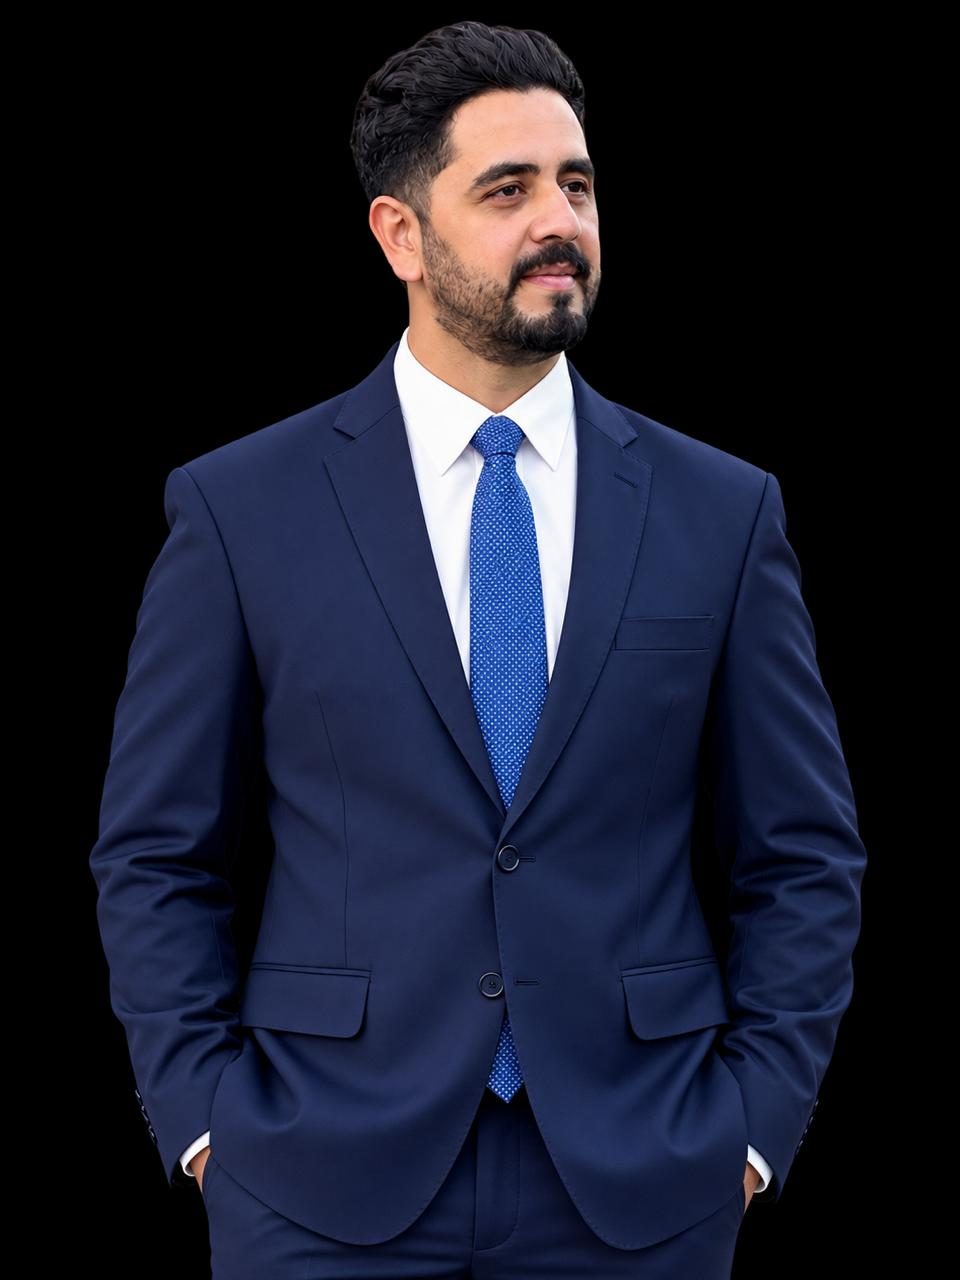
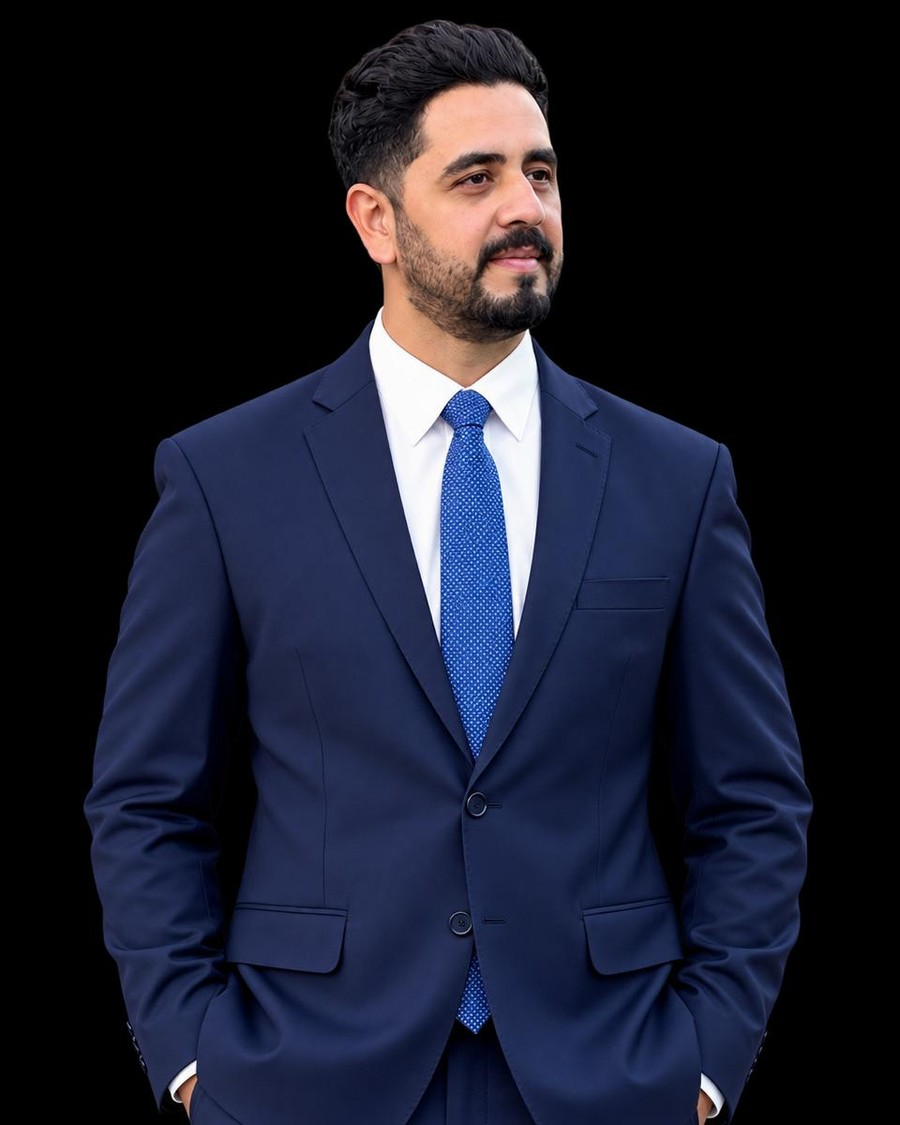
Redesign About page founder section, add CTA scroll choreography, fix heading font consistency
- Rebuild the founder portrait as a large left-aligned circular frame
  with an offset gold ring (stroke-draw animation) instead of a
  full-bleed rectangular panel, avoiding any studio-backdrop seam
  against the page background
- Re-crop the founder photo to a proper head-and-shoulders framing via
  sharp's attention-based smart crop (original backed up)
- Add multi-directional scroll-in choreography to the homepage CTA
  section and a reusable word-mask TextReveal component for headings
- Revert two headings that had drifted to plain Inter back to Playfair
  for sitewide consistency, and replace ornate "&" ampersands with
  "and" in public-facing Playfair headings
- Add optional className support to ScrollReveal

diff --git a/components/about/AboutView.tsx b/components/about/AboutView.tsx
@@ -3,6 +3,7 @@
 import React from "react";
 import Image from "next/image";
 import Link from "next/link";
+import { motion } from "framer-motion";
 import { ScrollReveal } from "@/components/ui/ScrollReveal";
 import { MapPin, ShieldCheck, ArrowDown } from "lucide-react";
 
@@ -144,7 +145,7 @@ export const AboutView: React.FC<AboutViewProps> = ({
                 PRACTICE LEADERSHIP
               </span>
               <h2 className="font-playfair text-3xl md:text-5xl text-on-surface dark:text-zinc-100 font-normal">
-                Principal Architect &amp; Founder.
+                Principal Architect and Founder.
               </h2>
               <p className="font-inter text-sm md:text-base text-on-surface-variant dark:text-zinc-400 font-light">
                 Every project is personally spearheaded by Muhammad Arsalan,
@@ -170,80 +171,124 @@ export const AboutView: React.FC<AboutViewProps> = ({
           </div>
         ) : (
           leaders.map((leader) => (
-            <ScrollReveal key={leader.name}>
-              <div className="w-full grid grid-cols-1 lg:grid-cols-[2fr_3fr] lg:min-h-[480px] items-stretch bg-surface-container-low dark:bg-zinc-900 border-y border-outline-variant/20">
-                {/* Left: portrait in architectural circular frame */}
-                <div className="relative min-h-[360px] lg:min-h-0 flex items-center justify-center py-10 lg:py-12 px-6">
-                  <div className="group relative w-full max-w-[280px] sm:max-w-[320px] md:max-w-[360px] aspect-square rounded-full overflow-hidden border-4 border-white dark:border-zinc-800 shadow-2xl ring-2 ring-tertiary/25 dark:ring-tertiary/30 hover:ring-tertiary/60 dark:hover:ring-tertiary/60 transition-all duration-500 bg-transparent">
+            <div
+              key={leader.name}
+              className="w-full grid grid-cols-1 lg:grid-cols-[2fr_3fr] bg-surface-container-low dark:bg-zinc-900 border-y border-outline-variant/20"
+            >
+              {/* Left: contained circular portrait — left-aligned in its
+                  column, vertically centered against the text. A defined
+                  circular boundary (with the offset gold ring as the
+                  deliberate edge) rather than a full-bleed rectangle means
+                  there's no seam to fight regardless of the source photo's
+                  own backdrop color. */}
+              <div className="flex items-center justify-start px-6 md:px-margin-desktop lg:px-16 py-14 lg:py-16">
+                <div className="relative w-[280px] sm:w-[360px] lg:w-[450px] aspect-square shrink-0">
+                  {/* Offset gold ring, sitting a few px behind/right of the
+                      photo for depth — traces in like a drawn circle
+                      slightly after the photo scales/fades into place. */}
+                  <svg
+                    className="absolute -right-3 -bottom-3 w-full h-full pointer-events-none overflow-visible"
+                    viewBox="0 0 100 100"
+                  >
+                    <motion.circle
+                      cx="50"
+                      cy="50"
+                      r="49.5"
+                      fill="none"
+                      stroke="#8a6125"
+                      strokeWidth="0.6"
+                      pathLength={1}
+                      initial={{ pathLength: 0, opacity: 0 }}
+                      whileInView={{ pathLength: 1, opacity: 1 }}
+                      viewport={{ once: true, amount: 0.2 }}
+                      transition={{
+                        pathLength: { duration: 0.7, delay: 0.35, ease: "easeOut" },
+                        opacity: { duration: 0.2, delay: 0.35 },
+                      }}
+                    />
+                  </svg>
+
+                  {/* Photo circle */}
+                  <motion.div
+                    initial={{ opacity: 0, scale: 0.85, x: 40 }}
+                    whileInView={{ opacity: 1, scale: 1, x: 0 }}
+                    viewport={{ once: true, amount: 0.2 }}
+                    transition={{ duration: 0.6, ease: "easeOut" }}
+                    className="relative w-full h-full rounded-full overflow-hidden shadow-xl ring-1 ring-black/5"
+                  >
                     <Image
                       fill
-                      src={
-                        leader.image === "/images/profile.jpeg"
-                          ? "/images/profile-removebg-preview.png"
-                          : leader.image ||
-                            "/images/profile-removebg-preview.png"
-                      }
+                      src={leader.image}
                       alt={`${leader.name}, ${leader.role} at MARK Architects`}
-                      sizes="(max-width: 640px) 280px, (max-width: 768px) 320px, 360px"
-                      className="object-cover object-top transition-transform duration-700 ease-out group-hover:scale-105 will-change-transform"
+                      sizes="(max-width: 640px) 280px, (max-width: 1024px) 360px, 450px"
+                      className="object-cover object-top"
                       priority
                     />
-                  </div>
-                </div>
-
-                {/* Right: qualifications */}
-                <div className="flex flex-col justify-center px-4 md:px-margin-desktop py-14 lg:py-0">
-                  <div className="max-w-xl space-y-5 w-full">
-                    <div>
-                      <div className="h-px w-12 bg-tertiary/50 mb-4" />
-                      <h3 className="font-playfair text-4xl sm:text-5xl font-bold text-on-surface dark:text-zinc-100">
-                        {leader.name}
-                      </h3>
-                      <p className="text-sm sm:text-base text-tertiary font-inter font-semibold mt-1.5">
-                        {leader.role}
-                      </p>
-                    </div>
-
-                    <div className="flex flex-wrap gap-2">
-                      {leader.credentials.split(" • ").map((cred) => (
-                        <span
-                          key={cred}
-                          className="inline-flex items-center gap-1.5 bg-white dark:bg-zinc-900 text-on-surface dark:text-zinc-200 text-xs sm:text-sm font-inter font-semibold px-3.5 py-2 rounded-lg border border-outline-variant/40 shadow-xs"
-                        >
-                          <ShieldCheck className="w-3.5 h-3.5 text-emerald-600 shrink-0" />
-                          {cred}
-                        </span>
-                      ))}
-                    </div>
-
-                    <p className="font-inter text-base text-on-surface-variant dark:text-zinc-300 font-light leading-relaxed">
-                      {leader.bio}
-                    </p>
-
-                    <div className="pt-3 border-t border-outline-variant/20 flex flex-wrap gap-5 text-sm text-on-surface-variant dark:text-zinc-400">
-                      <div>
-                        <span className="font-bold text-on-surface dark:text-zinc-200">
-                          Experience:
-                        </span>{" "}
-                        {leader.experience.split(" ").slice(0, 2).join(" ")}
-                      </div>
-                      <div>
-                        <span className="font-bold text-on-surface dark:text-zinc-200">
-                          Focus:
-                        </span>{" "}
-                        Residential &amp; Commercial Masterplanning
-                      </div>
-                      <div>
-                        <span className="font-bold text-on-surface dark:text-zinc-200">
-                          Council:
-                        </span>{" "}
-                        PCATP Licensed Architect
-                      </div>
-                    </div>
-                  </div>
+                  </motion.div>
                 </div>
               </div>
-            </ScrollReveal>
+
+              {/* Right: qualifications — vertically centered, same left
+                  gutter as the rest of the page. Slides up slightly after
+                  the photo starts, rather than sliding sideways too, so the
+                  two don't compete with identical motion. */}
+              <motion.div
+                initial={{ opacity: 0, y: 20 }}
+                whileInView={{ opacity: 1, y: 0 }}
+                viewport={{ once: true, amount: 0.2 }}
+                transition={{ duration: 0.7, ease: "easeOut", delay: 0.15 }}
+                className="flex flex-col justify-center px-4 md:px-margin-desktop py-14 lg:py-20"
+              >
+                <div className="max-w-xl space-y-5 w-full">
+                  <div>
+                    <div className="h-px w-12 bg-tertiary/50 mb-4" />
+                    <h3 className="font-playfair text-4xl sm:text-5xl font-bold text-on-surface dark:text-zinc-100">
+                      {leader.name}
+                    </h3>
+                    <p className="text-sm sm:text-base text-tertiary font-inter font-semibold mt-1.5">
+                      {leader.role}
+                    </p>
+                  </div>
+
+                  <div className="flex flex-wrap gap-2">
+                    {leader.credentials.split(" • ").map((cred) => (
+                      <span
+                        key={cred}
+                        className="inline-flex items-center gap-1.5 bg-white dark:bg-zinc-900 text-on-surface dark:text-zinc-200 text-xs sm:text-sm font-inter font-semibold px-3.5 py-2 rounded-lg border border-outline-variant/40 shadow-xs"
+                      >
+                        <ShieldCheck className="w-3.5 h-3.5 text-emerald-600 shrink-0" />
+                        {cred}
+                      </span>
+                    ))}
+                  </div>
+
+                  <p className="font-inter text-base text-on-surface-variant dark:text-zinc-300 font-light leading-relaxed">
+                    {leader.bio}
+                  </p>
+
+                  <div className="pt-3 border-t border-outline-variant/20 flex flex-wrap gap-5 text-sm text-on-surface-variant dark:text-zinc-400">
+                    <div>
+                      <span className="font-bold text-on-surface dark:text-zinc-200">
+                        Experience:
+                      </span>{" "}
+                      {leader.experience.split(" ").slice(0, 2).join(" ")}
+                    </div>
+                    <div>
+                      <span className="font-bold text-on-surface dark:text-zinc-200">
+                        Focus:
+                      </span>{" "}
+                      Residential &amp; Commercial Masterplanning
+                    </div>
+                    <div>
+                      <span className="font-bold text-on-surface dark:text-zinc-200">
+                        Council:
+                      </span>{" "}
+                      PCATP Licensed Architect
+                    </div>
+                  </div>
+                </div>
+              </motion.div>
+            </div>
           ))
         )}
       </section>

diff --git a/components/home/HomeView.tsx b/components/home/HomeView.tsx
@@ -3,6 +3,7 @@
 import React, { useState, useEffect, useMemo } from "react";
 import Link from "next/link";
 import { ScrollReveal } from "@/components/ui/ScrollReveal";
+import { TextReveal } from "@/components/ui/TextReveal";
 import { HeroCinematic } from "@/components/home/HeroCinematic";
 import { CredentialsRow } from "@/components/home/CredentialsRow";
 import {
@@ -128,7 +129,7 @@ export const HomeView: React.FC<HomeViewProps> = ({
                   Client Testimonials &amp; Endorsements
                 </span>
                 <h2 className="font-playfair text-3xl sm:text-4xl md:text-5xl font-normal text-white mt-2">
-                  Trusted by Homeowners &amp; Developers
+                  Trusted by Homeowners and Developers
                 </h2>
               </ScrollReveal>
             </div>
@@ -260,21 +261,33 @@ export const HomeView: React.FC<HomeViewProps> = ({
         </section>
       )}
 
-      {/* Call to Action Home */}
+      {/* Call to Action Home — each piece enters from its own direction and
+          converges into place, rather than the whole block sliding up as
+          one unit, so the section reads as choreographed on scroll-in. */}
       <section className="bg-[#f7f4ef] px-4 py-20 md:px-margin-desktop md:py-32 text-center">
-        <ScrollReveal>
-          <div className="mx-auto max-w-3xl space-y-6 sm:space-y-8">
+        <div className="mx-auto max-w-3xl space-y-6 sm:space-y-8">
+          <ScrollReveal direction="down">
             <span className="font-inter text-xs font-bold uppercase tracking-[0.3em] text-[#8a6125]">
               Start with a conversation
             </span>
-            <h2 className="font-playfair text-3xl sm:text-5xl md:text-6xl font-normal leading-[1.08] text-[#272522]">
-              Ready to make something lasting?
-            </h2>
+          </ScrollReveal>
+
+          <TextReveal
+            as="h2"
+            text="Ready to make something lasting?"
+            delay={0.1}
+            className="font-playfair text-3xl sm:text-5xl md:text-6xl font-normal leading-[1.08] text-[#272522]"
+          />
+
+          <ScrollReveal direction="left" delay={0.3}>
             <p className="mx-auto max-w-xl font-inter text-sm sm:text-base font-light leading-7 text-[#77716a] md:text-lg">
               Schedule your 1-on-1 consultation or upload your blueprint for a
               professional architectural audit.
             </p>
-            <div className="pt-4 flex flex-col sm:flex-row justify-center items-center gap-3 sm:gap-4">
+          </ScrollReveal>
+
+          <div className="pt-4 flex flex-col sm:flex-row justify-center items-center gap-3 sm:gap-4">
+            <ScrollReveal direction="right" delay={0.4} className="w-full sm:w-auto">
               <Link
                 href="/consultation"
                 className="w-full sm:w-auto inline-flex items-center justify-center gap-2 rounded-xl bg-[#292722] px-6 sm:px-10 py-4 font-inter text-xs font-bold uppercase tracking-widest text-white shadow-xl transition-all duration-300 hover:bg-[#8a6125] active:scale-95 text-center min-h-[48px]"
@@ -282,15 +295,17 @@ export const HomeView: React.FC<HomeViewProps> = ({
                 <span>Book Consultation (PKR 3,000)</span>
                 <PhoneCall className="w-4 h-4" />
               </Link>
+            </ScrollReveal>
+            <ScrollReveal direction="left" delay={0.5} className="w-full sm:w-auto">
               <Link
                 href="/consultation"
                 className="w-full sm:w-auto inline-flex items-center justify-center rounded-xl border border-[#c9c0b2] px-6 sm:px-10 py-4 font-inter text-xs font-bold uppercase tracking-widest text-[#5f5951] transition-all hover:border-[#8a6125] hover:text-[#8a6125] active:scale-95 text-center min-h-[48px]"
               >
                 Explore All Packages
               </Link>
-            </div>
+            </ScrollReveal>
           </div>
-        </ScrollReveal>
+        </div>
       </section>
     </div>
   );

diff --git a/components/ui/TextReveal.tsx b/components/ui/TextReveal.tsx
@@ -1,0 +1,55 @@
+"use client";
+
+import React, { useRef } from "react";
+import { motion, useInView } from "framer-motion";
+
+interface TextRevealProps {
+  text: string;
+  className?: string;
+  delay?: number;
+  as?: "h1" | "h2" | "h3";
+}
+
+const EASE = [0.22, 1, 0.36, 1] as const; // matches ScrollReveal's curve site-wide
+const WORD_STAGGER = 0.055; // seconds between each word starting
+
+// Masked word-by-word reveal: each word slides up from behind a clipped
+// (overflow-hidden) box rather than just fading in, which reads as a much
+// more deliberate, "engineered" entrance than a plain opacity tween.
+export const TextReveal: React.FC<TextRevealProps> = ({
+  text,
+  className,
+  delay = 0,
+  as: Tag = "h2",
+}) => {
+  const ref = useRef(null);
+  const isInView = useInView(ref, { once: true, amount: 0.4 });
+  const words = text.split(" ");
+
+  return (
+    <Tag ref={ref} className={className}>
+      {words.map((word, i) => (
+        <span
+          key={`${word}-${i}`}
+          className="inline-block overflow-hidden pb-[0.1em] align-bottom"
+        >
+          <motion.span
+            className="inline-block"
+            initial={{ y: "110%" }}
+            animate={isInView ? { y: "0%" } : { y: "110%" }}
+            transition={{
+              duration: 0.7,
+              delay: delay + i * WORD_STAGGER,
+              ease: EASE,
+            }}
+          >
+            {word}
+            {i < words.length - 1 ? " " : ""}
+          </motion.span>
+        </span>
+      ))}
+    </Tag>
+  );
+};
+
+export default TextReveal;

diff --git a/components/pricing/PricingView.tsx b/components/pricing/PricingView.tsx
@@ -228,7 +228,7 @@ export const PricingView: React.FC<PricingViewProps> = ({ initialPricing }) => {
                 Standardized Terms
               </span>
               <h2 className="font-playfair text-2xl md:text-3xl font-bold text-secondary dark:text-zinc-100 mt-1">
-                Studio Payment &amp; Revision Policy
+                Studio Payment and Revision Policy
               </h2>
             </div>
             <div className="flex items-center gap-2 text-xs text-zinc-500 dark:text-zinc-400 font-medium">

diff --git a/components/ui/ScrollReveal.tsx b/components/ui/ScrollReveal.tsx
@@ -9,6 +9,7 @@ export const ScrollReveal: React.FC<ScrollRevealProps> = ({
   delay = 0,
   direction = "up",
   duration = 0.8,
+  className,
 }) => {
   const ref = useRef(null);
   // Trigger reveal when element is 10% inside the viewport
@@ -31,6 +32,7 @@ export const ScrollReveal: React.FC<ScrollRevealProps> = ({
   return (
     <motion.div
       ref={ref}
+      className={className}
       variants={getVariants()}
       initial="hidden"
       animate={isInView ? "visible" : "hidden"}

diff --git a/components/home/CredentialsRow.tsx b/components/home/CredentialsRow.tsx
@@ -200,7 +200,7 @@ export const CredentialsRow: React.FC = () => {
               >
                 {String(idx + 1).padStart(2, "0")}
               </span>
-              <h3 className="mt-2 font-inter text-2xl font-bold text-[#272522]">
+              <h3 className="mt-2 font-playfair text-2xl font-bold text-[#272522]">
                 {item.title}
               </h3>
               <p className="mt-3 font-inter text-base font-light leading-relaxed text-[#77716a]">

diff --git a/components/collection/CollectionView.tsx b/components/collection/CollectionView.tsx
@@ -263,7 +263,7 @@ export const CollectionView: React.FC<CollectionViewProps> = ({
                 Standardized Architecture
               </span>
               <h2 className="font-playfair text-2xl md:text-3xl font-bold text-secondary dark:text-zinc-100 mt-1">
-                Design &amp; Review Packages
+                Design and Review Packages
               </h2>
             </div>
             <span className="text-xs font-inter text-zinc-500 font-medium">

diff --git a/types.d.ts b/types.d.ts
@@ -14,6 +14,7 @@ export interface ScrollRevealProps {
   delay?: number;
   direction?: "up" | "down" | "left" | "right" | "none";
   duration?: number;
+  className?: string;
 }
 
 export interface ClientLayoutProps {
